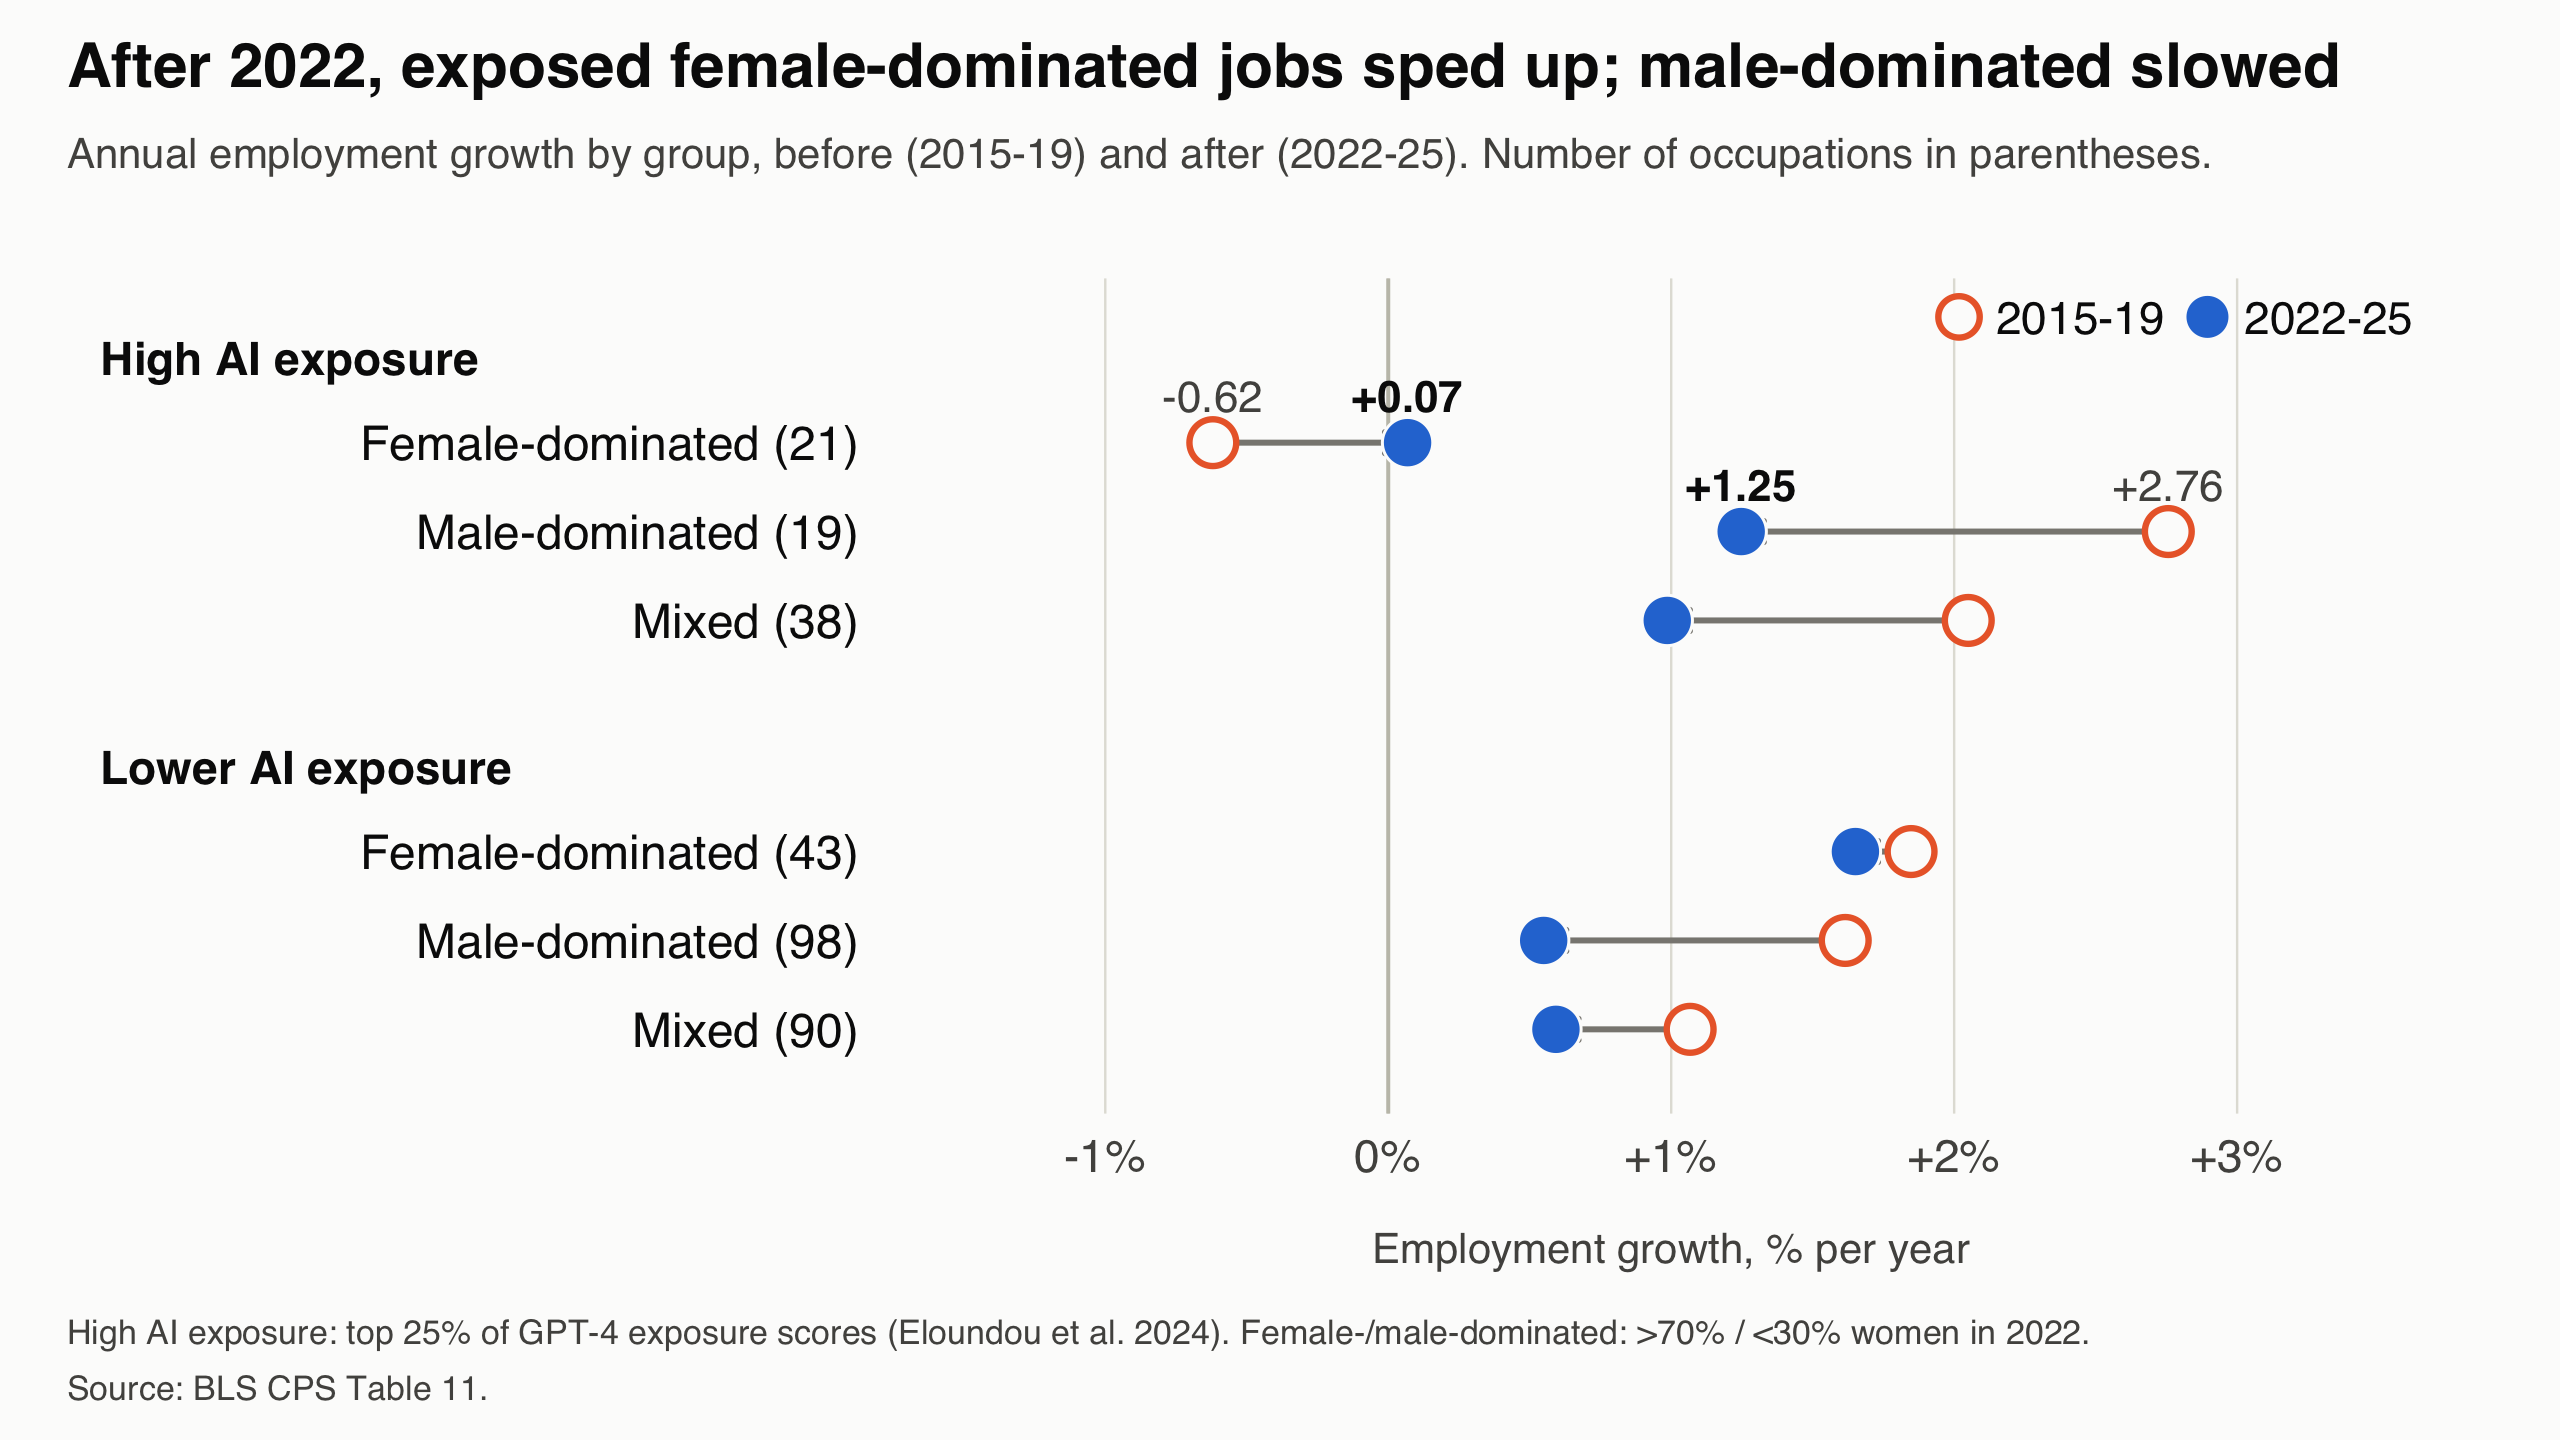
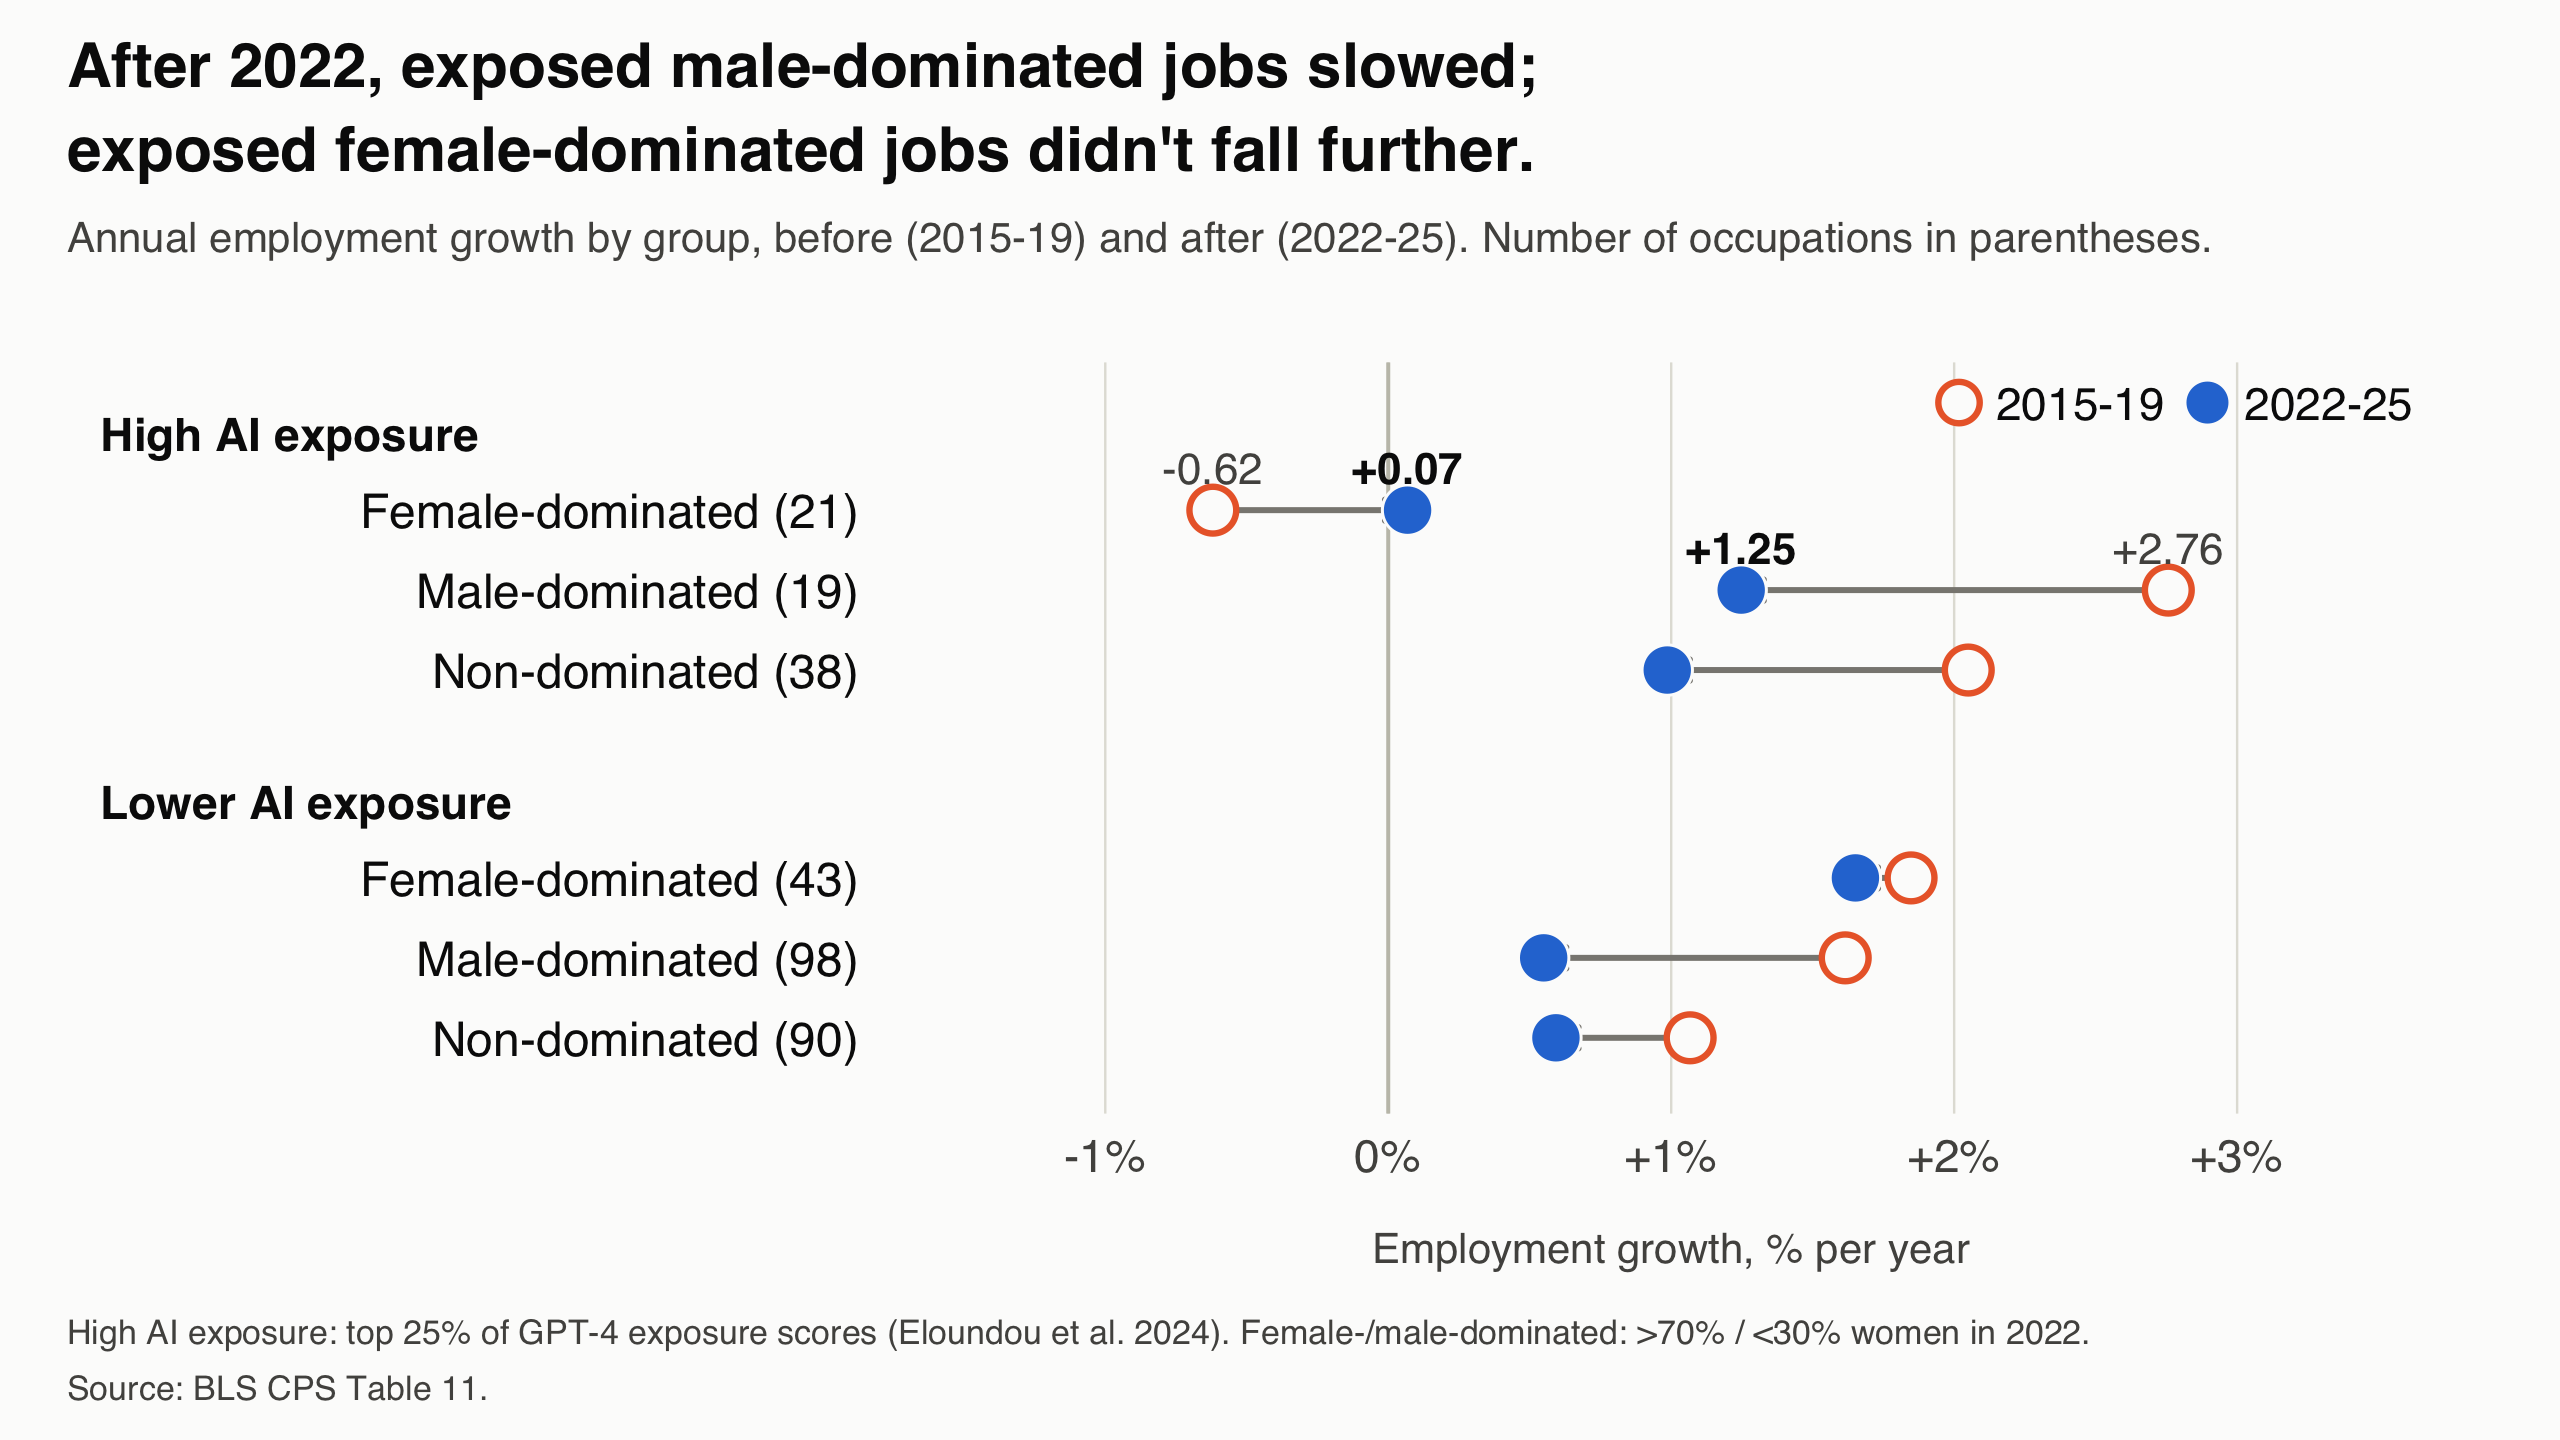
Add Pew-window and checks-summary figures; revise figures 1-3
R/16_figures.R now writes five figures, all values read from numbers.csv:
- fig4_pew_reconcile.png: Pew-model gender gap (Eloundou, per SD) for
  Pew's window, 2017-19 -> 2022 and 2022 -> 2023-25, with 95% CIs.
- fig5_checks_summary.png: main gap, triple difference, checks 1/3/4/5,
  worker-level degree split and age bands, with intervals and
  PASS/FAIL/THIN labels.
- fig1: "Mixed" renamed "Non-dominated"; new two-line title.
- fig2: ChatGPT marker moved between 2022 and 2023 and relabeled.
- fig3: footnote now names the sales sliver's actual color (yellow).

README and 00_run_all.R list figures 1-5.

diff --git a/README.md b/README.md
@@ -38,7 +38,7 @@ Run in this order. Later scripts read files written by earlier ones.
 | `13_ipums_build.R` | IPUMS employment by unit × year × sex × degree × age band | `data/derived/ipums_unit_year_sex_deg_age.csv` |
 | `14_ipums_education_gap.R` | Gap for workers with and without a bachelor's degree; survey responses behind each cell | `output/ipums_education_gap.csv`, `ipums_education_cells.csv` |
 | `15_pew_reconcile.R` | Compares our result with Pew Research Center (Oct 2026); rebuilds Pew's O*NET exposure index | `output/pew_reconcile.txt`, `data/derived/pew_exposure_units.csv` |
-| `16_figures.R` | Three 16:9 slide/paper figures from the outputs above | `output/figures/fig1-3*.png` |
+| `16_figures.R` | Five 16:9 slide/paper figures from the outputs above (growth before/after, annual gap, composition, Pew windows, summary of all estimates and checks) | `output/figures/fig1-5*.png` |
 
 Scripts 05–10, 12, 14 and 15 also add rows to `output/numbers.csv`.
 
